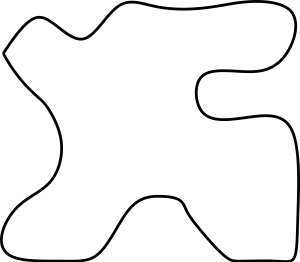
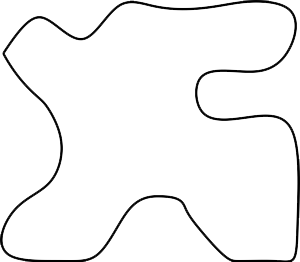
Fixed backgrond of some images

diff --git a/htemel/ProximityAlert.html b/htemel/ProximityAlert.html
@@ -79,7 +79,7 @@
                             <ul><li> Robotunuz otonom olarak hareket edecek ve başlangıç noktasından 1 metre uzaktaki tahta duvara çarpmaktan sensörler kullanarak kaçınacak. Bunu toplamda 3 kere yapacak. Her yaklaşma ve durmada robotunuzu tekrar başlangıç çizgisine taşıyacaksınız. Robotun hiçbir bölümü duvara dokunamaz  </li></ul>
 
                             <h2> Kontrol Methodu </h2>
-                            <img class="size-full wp-image-4406" src="../img/ProximityAlert.jpg" alt="" width="500" height="330" >
+                            <img class="size-full wp-image-4406" src="../img/ProximityAlert.png" alt="" width="500" height="330" >
                             <ul><li> Otonom </li></ul>
                        
                             <h2> Süre </h2>
@@ -105,7 +105,7 @@
                             </ul>
                             <h3>Ekstra Puanlar</h3>
 
-                            <img class="size-full wp-image-4406" src="../img/ProximityAlert2.jpg" alt="" width="250" height="250" >
+                            <img class="size-full wp-image-4406" src="../img/ProximityAlert2.png" alt="" width="250" height="250" >
                             <ul>
                                 <li>Her başarılı yaklaşma ve durma 5 puan değerindedir. </li>
                             </ul>

diff --git a/htemel/DuckShoot.html b/htemel/DuckShoot.html
@@ -79,7 +79,7 @@
                             <ul><li> Olabildiğince fazla hedef vurmak </li></ul>
 
                             <h2> Kontrol Methodu </h2>
-                            <img class="size-full wp-image-4406" src="../img/Duckshoot.jpg" alt="" width="500" height="250" >
+                            <img class="size-full wp-image-4406" src="../img/Duckshoot.png" alt="" width="500" height="250" >
                             <ul><li> Kumanda kontrollü </li></ul>
                        
                             <h2> Süre </h2>
